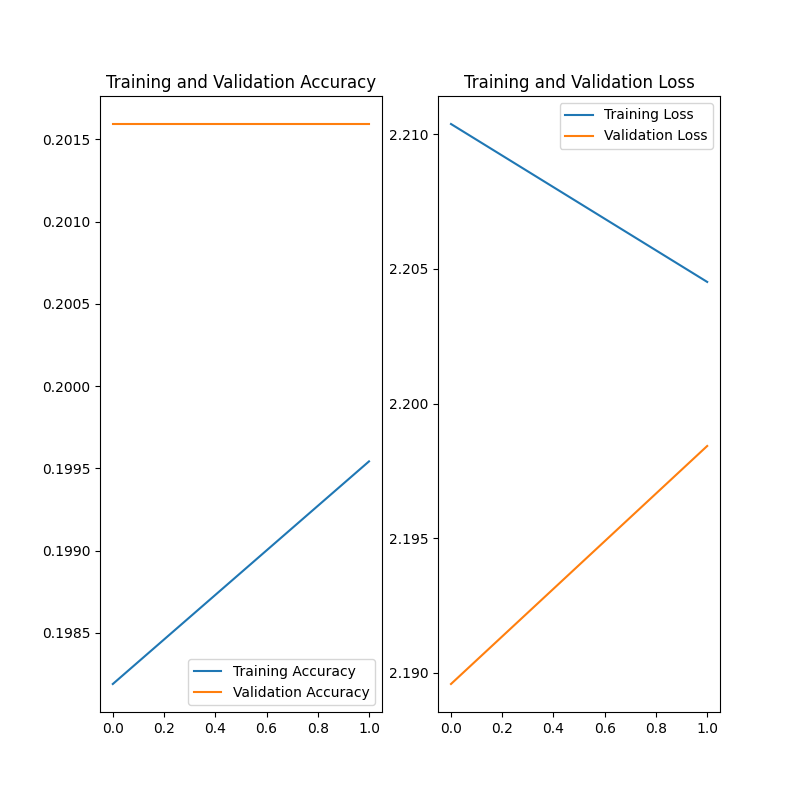
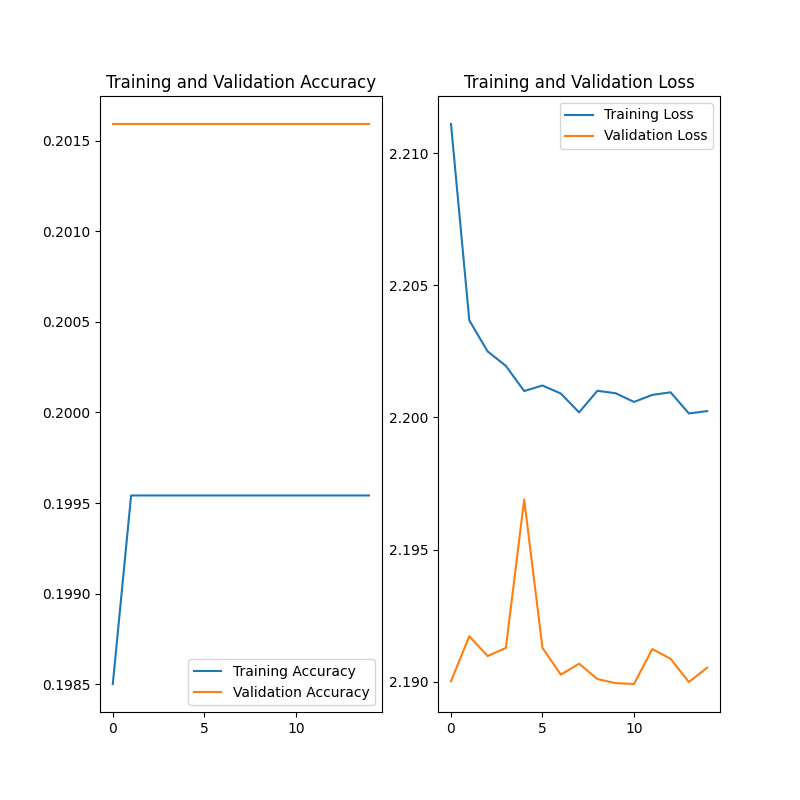
Add drop out and resize in model creation

diff --git a/src/cnn_plant_diseases.py b/src/cnn_plant_diseases.py
@@ -6,11 +6,11 @@ from pathlib import Path
 import tensorflow as tf
 from tensorflow.keras import layers
 from tensorflow.keras.models import Sequential
-
+import tensorflow_model_optimization as tfmot
 
 # Model hyperparameters
 BATCH_SIZE = 16
-EPOCHS = 2
+EPOCHS = 15
 
 # Image settings param.
 IMAGE_SIZE = 256
@@ -239,7 +239,7 @@ def set_prefetch(dataset: tf.data.Dataset):
     return dataset.shuffle(1000).prefetch(buffer_size=AUTOTUNE)
 
 
-def normalize_dataset(dataset: tf.data.Dataset):
+def normalize_dataset(dataset: tf.data.Dataset, silent_console: bool = True):
     """
     Normalize image data.
     RGB values are in the [0, 255] range, so we need to scale them to the [0, 1] range.
@@ -252,9 +252,10 @@ def normalize_dataset(dataset: tf.data.Dataset):
     image_batch, labels_batch = next(iter(normalized_ds))
 
     # get the first image to check the pixel values
-    first_image = image_batch[0]
-    print(f"First image pixel values -> Min: {np.min(first_image)} | Max: {np.max(first_image)} | "
-          f"Shape: {first_image.shape}")
+    if not silent_console:
+        first_image = image_batch[0]
+        print(f"First image pixel values -> Min: {np.min(first_image)} | Max: {np.max(first_image)} | "
+              f"Shape: {first_image.shape}")
     return normalized_ds
 
 
@@ -265,21 +266,27 @@ def create_model(class_names: list, img_height: int, img_width: int):
     :return:
     """
     num_classes = len(class_names)
-
-    input_shape = (img_height, img_width, 3)
-
+    image_shape = (img_height, img_width, 3)
     model = Sequential([
-        layers.Input(shape=input_shape),
+        layers.Input(shape=image_shape),
+        layers.Resizing(img_height, img_width),
         layers.Rescaling(1. / 255),
-        layers.Conv2D(16, 3, padding='same', activation='relu'),
-        layers.MaxPooling2D(),
-        layers.Conv2D(32, 3, padding='same', activation='relu'),
-        layers.MaxPooling2D(),
-        layers.Conv2D(64, 3, padding='same', activation='relu'),
-        layers.MaxPooling2D(),
+        layers.Conv2D(32, kernel_size=(3, 3), activation='relu'),
+        layers.MaxPooling2D((2, 2)),
+        layers.Conv2D(64, kernel_size=(3, 3), activation='relu'),
+        layers.MaxPooling2D((2, 2)),
+        layers.Conv2D(64, kernel_size=(3, 3), activation='relu'),
+        layers.MaxPooling2D((2, 2)),
+        layers.Conv2D(64, (3, 3), activation='relu'),
+        layers.MaxPooling2D((2, 2)),
+        layers.Conv2D(64, (3, 3), activation='relu'),
+        layers.MaxPooling2D((2, 2)),
+        layers.Conv2D(64, (3, 3), activation='relu'),
+        layers.MaxPooling2D((2, 2)),
+        layers.Dropout(0.2), # Dropout layer to reduce overfitting
         layers.Flatten(),
-        layers.Dense(128, activation='relu'),
-        layers.Dense(num_classes)
+        layers.Dense(64, activation='relu'),
+        layers.Dense(num_classes, activation='softmax'),
     ])
 
     return model
@@ -292,7 +299,7 @@ def compile_mode(model: tf.keras.Model):
     :return:
     """
     model.compile(optimizer='adam',
-                  loss=tf.losses.SparseCategoricalCrossentropy(from_logits=True),
+                  loss=tf.losses.SparseCategoricalCrossentropy(from_logits=False),
                   metrics=['accuracy'])
     model.summary()
 
@@ -360,6 +367,29 @@ def save_model(model: tf.keras.Model, model_name: str, file_format: str = "keras
     model.save(model_path)
 
 
+def show_first_data_in_dataset(dataset: tf.data.Dataset, class_names: list):
+    """
+    Show the first data in the dataset
+
+    :return:
+    """
+    print("\n---- Showing the first data in the dataset...")
+    # get the first batch of data
+    for image, label in dataset.take(1):
+        # Show the first image and label
+        first_img = image[0]
+        first_label = label[0]
+        print(f"First image shape: {first_img.shape} | First label: {first_label}")
+        print(f"First image pixel values -> Min: {np.min(first_img)} | Max: {np.max(first_img)}")
+
+        # Display the first image
+        plt.figure()
+        plt.imshow(first_img)
+        plt.title(f"First image example | Label: {first_label} | Class name: {class_names[first_label]}")
+        plt.grid(False)
+        plt.show()
+
+
 if __name__ == '__main__':
     show_const_var_settings()
 
@@ -398,6 +428,8 @@ if __name__ == '__main__':
     train_dataset_normalized = normalize_dataset(train_dataset)
     val_dataset_normalized = normalize_dataset(val_dataset)
 
+    show_first_data_in_dataset(train_dataset_normalized, train_classes)
+
     # Check if a fit model is already saved
     if os.path.exists(results_dir + "cnn_first_model.keras"):
         print("\n---- A model is already saved !")
@@ -426,6 +458,9 @@ if __name__ == '__main__':
 
     print("### Train dataset evaluation:")
     model.evaluate(train_dataset_normalized)
+
+    # Quantize the model
+    print("\n---- Quantizing the model...")
 
     # TODO : refactor print to logger
     # TODO : add test dataset
